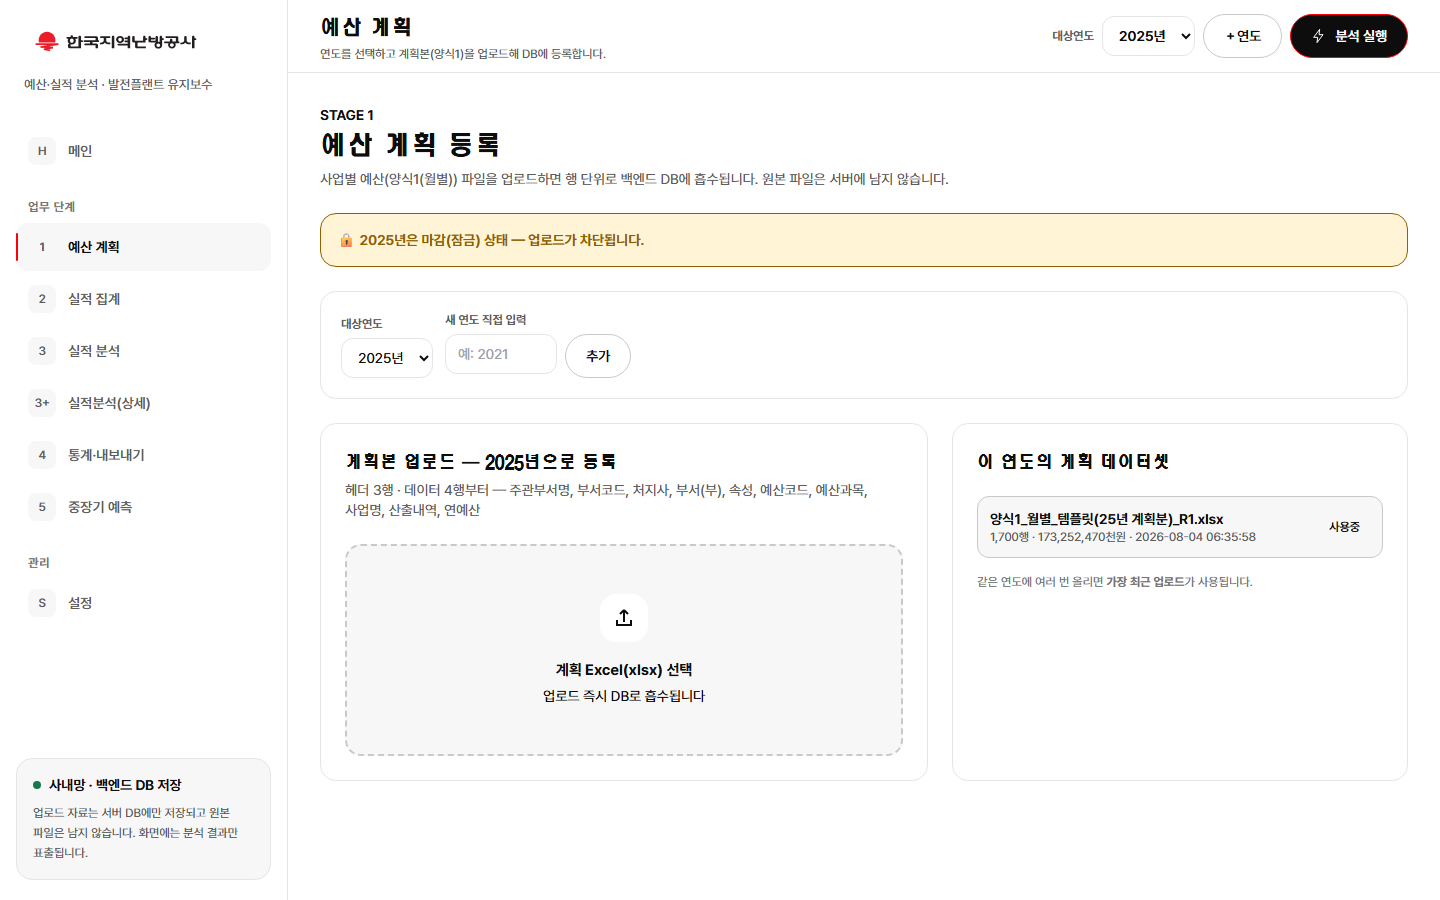
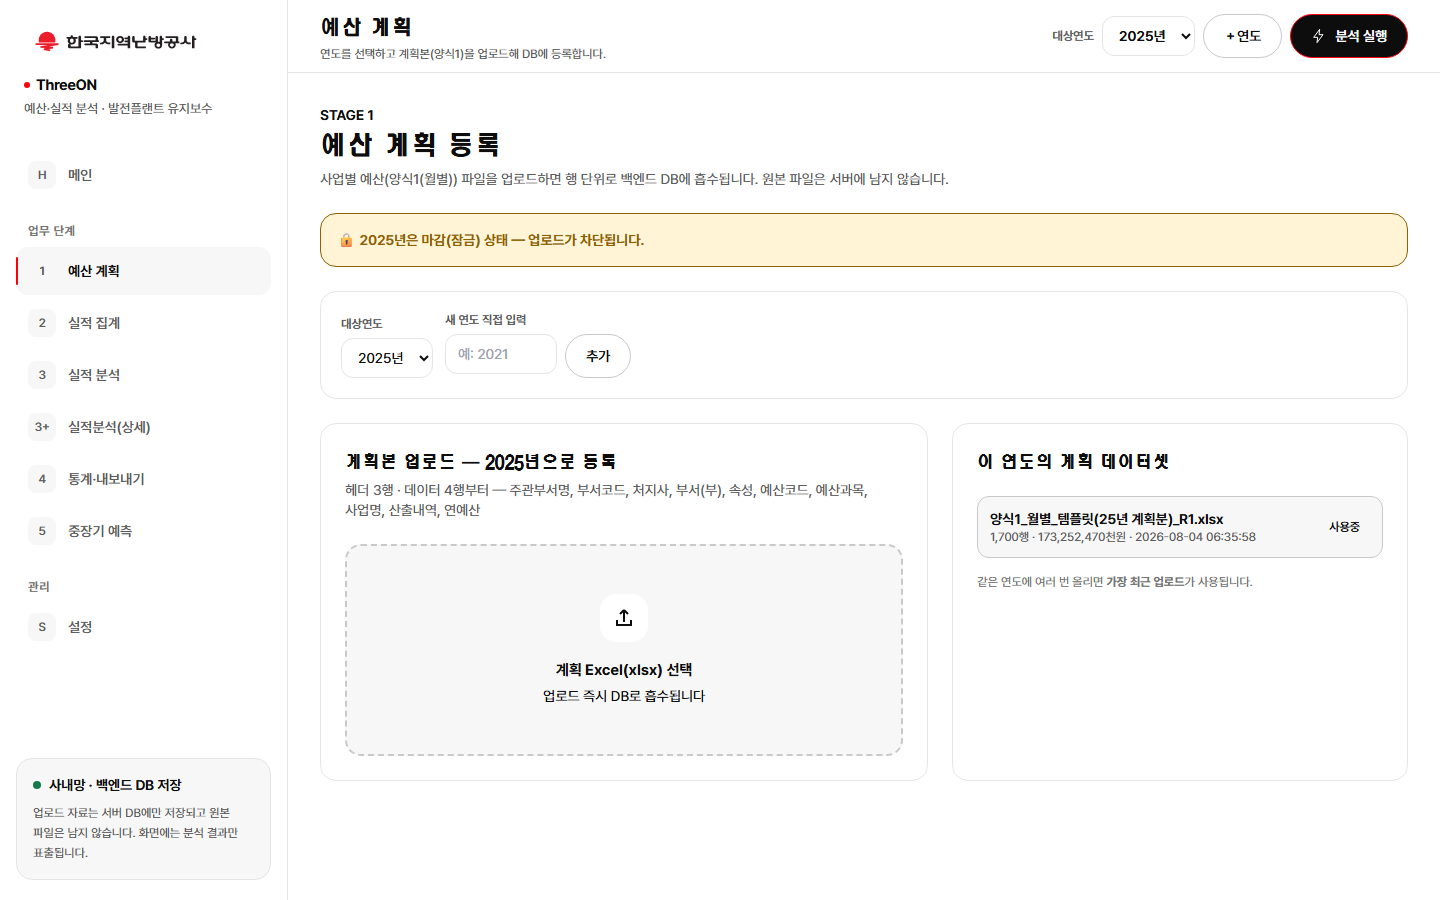
docs: 팀 공유 문서 Phase 8 현행화 · 캡처 24장 ThreeON 반영
왜: #35 로 화면이 바뀌었는데 팀원이 보는 문서·캡처는 Phase 7(파란 화면·269) 기준이었다.

- 팀공유_최종안내.html — 기준일 Phase 8 · 279 passed · «화면이 바뀌었지만 메뉴·순서는 그대로»
  안내 문단 · 문서 지도에 UI_제작메모_한난.md.
- 팀원_실행가이드.md — Phase 8 · 화면 변경 안내 · 테스트 수·소요시간.
- README.md — 읽기 순서에 UI 제작메모 · 토큰 두 곳 규칙 한 줄.
- 변경이력_CHANGELOG.md — rev19 Phase 8 항목(결정·토큰·셸·치환·폰트 함정·남은 것).
- 다음_할_일_체크리스트.md — Phase 8 절: #34·#35 병합 완료, 남은 것 = 후속 PR 병합 →
  Manual Deploy 확인 · 한난체 사용 범위 확인.
- 통합_인수인계_MASTER.md — rev19 현행화 블록(토큰 두 곳·test_ui_shell·ThreeON·operator-badge 이동).
- img/share 10장 · img/ui 1440·768 14장 — ThreeON 표기가 들어간 화면으로 재캡처
  (390·360 은 드로어가 닫혀 있어 사이드바가 안 보이므로 그대로).

diff --git a/2026-09-09-team-package-v0/docs/팀공유_최종안내.html b/2026-09-09-team-package-v0/docs/팀공유_최종안내.html
@@ -54,8 +54,8 @@
   <p>지사 19곳의 예산계획과 SAP 실적 전표를 자동으로 맞춰 보고, 마감된 연도의 실적으로 정비등급별 표준금액과 2026~2035년 소요를 전망하는 팀 시스템입니다. 이 문서는 «무엇을 하고 · 어떻게 쓰고 · 어디까지 검증됐고 · 무엇이 남았나»를 30분 안에 파악하기 위한 안내입니다.</p>
   <div class="meta">
     <div><b>주소</b>https://threeon-budget.onrender.com</div>
-    <div><b>기준일</b>2026-09-21 (Phase 7)</div>
-    <div><b>상태</b>1~5단계 완성 · 테스트 269 passed · 배포 운영 중</div>
+    <div><b>기준일</b>2026-09-21 (Phase 8)</div>
+    <div><b>상태</b>1~5단계 완성 · 테스트 279 passed · 배포 운영 중 · 한난 CI 디자인 적용</div>
     <div><b>단위</b>화면 천원</div>
   </div>
 </div></header>
@@ -71,6 +71,7 @@
     <div class="flow"><span>① 예산 계획</span><i>→</i><span>② 실적 집계·사업 매칭</span><i>→</i><span>③ 검토·확정·마감</span><i>→</i><span>④ 예산 표준화</span><i>→</i><span>⑤ 중장기 전망 26~35</span></div>
     <p style="margin-top:14px">계획본(양식1)과 ERP 전표(zrfm2)를 올리면 전표 하나하나를 계획 사업에 자동으로 귀속시키고(총액 유실 0), 사람이 검토·확정한 결과를 학습해 다음 해에 더 잘 맞춥니다. 확정된 연도를 <b>마감</b>하면 그 실적이 그대로 3·4단계(표준화·중장기 전망)의 입력이 됩니다 — 파일을 옮기거나 다른 프로그램을 열 필요가 없습니다.</p>
     <p>2026-09-20 까지의 변화: 동료가 만든 별도 전망 앱(v2)을 이 앱의 5번 탭으로 흡수했고, 서버는 프로세스 하나(uvicorn)로 정리됐으며, 인터넷이 없는 사내 서버에 올리는 절차까지 준비됐습니다.</p>
+    <p><b>2026-09-21 (Phase 8)</b>: 화면의 색·글꼴·형태를 <b>한국지역난방공사 공식 CI</b>(전용색 KDHC Red, 시그니처 로고, 제목용 한난체)로 바꿨습니다. 왼쪽에 우리 팀 이름 <b>ThreeON</b>이 붙었습니다. <b>메뉴·순서·기능은 그대로</b>이니 «화면이 낯설다»고 느껴도 하던 대로 쓰면 됩니다. 예전 화면이 보이면 <code>Ctrl+Shift+R</code> 한 번.</p>
   </div>
 </section>
 
@@ -185,6 +186,7 @@
     <tr><td>연계계약_CONTRACT.md</td><td>앱이 받고 내는 파일의 스키마·단위·명명 규칙</td></tr>
     <tr><td>배포가이드.md · 사내이관_가이드.md · 보안설계.md</td><td>운영·이관·보안</td></tr>
     <tr><td>학습데이터_모델_관리.md · DB_스냅샷.md</td><td>분류 모델·학습데이터 · DB 스키마와 현재 데이터</td></tr>
+    <tr><td>UI_제작메모_한난.md</td><td>화면 디자인 — 색·글꼴의 CI 근거, 대비표, 값 바꿀 때 보는 곳</td></tr>
     <tr><td>변경이력_CHANGELOG.md · superpowers/(설계·계획)</td><td>왜 이렇게 만들었나 — 의사결정 이력</td></tr>
   </table>
 </section>

diff --git a/2026-09-09-team-package-v0/docs/통합_인수인계_MASTER.md b/2026-09-09-team-package-v0/docs/통합_인수인계_MASTER.md
@@ -1,7 +1,9 @@
 # 예산·실적 분석 시스템 — 통합 인수인계 MASTER
 
 > **이 문서가 진입점입니다.** 다른 컴퓨터에서 Claude Code로 이 프로젝트를 분석·통합할 때 이 파일부터 읽으세요.
-> 작성: 2026-08-04 (rev13) · **현행화 2026-09-21 (Phase 7)** · 상태: **1~5단계(계획·실적·분석·통계·전망) 웹 앱 하나, 테스트 269 passed, Render 배포 운영 중**
+> 작성: 2026-08-04 (rev13) · **현행화 2026-09-21 (Phase 8)** · 상태: **1~5단계(계획·실적·분석·통계·전망) 웹 앱 하나, 테스트 279 passed, Render 배포 운영 중, 한난 CI 디자인 적용**
+>
+> **[rev19 · 2026-09-21 Phase 8 디자인]** 화면 색·글꼴·형태를 한난 공식 CI 로(#35). 토큰은 `app/web/tailwind.config.js` + `app.css :root` **두 곳 동일값**, 규칙·대비표·폰트 함정은 [UI_제작메모_한난.md](UI_제작메모_한난.md). 옛 팔레트(`blue-*`·`slate-*`) 를 새 화면에 쓰면 `test_ui_shell.py` 가 깨진다. 사이드바·게이트에 팀 이름 **ThreeON** 표기. §7 CSS 함정 문단의 «`.login-*`·`.operator-badge` 직접 CSS» 중 `.operator-badge` 는 `app.css` 컴포넌트로 옮겨졌다.
 >
 > **[2026-09-21 · Phase 6·7 이후 읽는 법]** 아래 본문은 rev13(2026-08-04) 기준으로 쓴 것이라 **분석 로직(§4)·DB(§5)·총액 보존 불변식·주의사항(§9)은 그대로 유효**하지만, 다음은 달라졌다:
 > - **앱은 하나다.** 3·4단계(표준화·중장기 전망)는 Phase 6(2026-09-19~20)에서 동료 전망 앱(v2)을 흡수해 **5번 탭**이 됐다(`/api/forecast/*`, 입력은 마감 연도의 `biz_line` 을 DB 에서 직접). v2 앱·Caddy·Streamlit·supervisord 는 삭제됐고 컨테이너는 uvicorn 하나다.
@@ -310,7 +312,7 @@ sed -n '/<body/,$p' webapp/index.html | sed '/^<\/html>$/d' \
 
 | 문서 | 상태 |
 |---|---|
-| 이 문서(상단 현행화 블록) + `변경이력_CHANGELOG.md` + [팀공유_최종안내.html](팀공유_최종안내.html) + [팀원_실행가이드.md](팀원_실행가이드.md) | ★ **최신 (Phase 7, 2026-09-21)** |
+| 이 문서(상단 현행화 블록) + `변경이력_CHANGELOG.md` + [팀공유_최종안내.html](팀공유_최종안내.html) + [팀원_실행가이드.md](팀원_실행가이드.md) + [UI_제작메모_한난.md](UI_제작메모_한난.md) | ★ **최신 (Phase 8, 2026-09-21)** |
 | `배포가이드.md` · `사내이관_가이드.md` · `보안설계.md` · `연계계약_CONTRACT.md` | 최신 (Phase 6-8~7) |
 | `budget_app/docs/DB_스냅샷.md` | 최신 — `py scripts/make_db_snapshot.py`로 언제든 재생성 |
 | `알고리즘_명세.html` | R1~R12까지 시각화 — **R13~R15(이동·삭제·개명동기화)는 미반영**, 이 문서 §4 표 참조 |

diff --git a/2026-09-09-team-package-v0/docs/변경이력_CHANGELOG.md b/2026-09-09-team-package-v0/docs/변경이력_CHANGELOG.md
@@ -4,6 +4,21 @@
 
 ---
 
+## 2026-09-21 · Phase 8 — 한난 디자인 시스템 적용 · ThreeON 표기 (rev19)
+
+**대상:** `app/web/`(토큰·컴포넌트·셸·뷰 10개) · `app/scripts/`(폰트 서브셋·치환) · `docs/`. PR #35 + 후속 PR. 테스트 **279 passed**(269 + `test_ui_shell.py` 10).
+
+- **결정(사용자)**: 전면 적용 · 사이드바 유지 · 시안 브랜드 규칙(주요 버튼 = 검정 바탕+흰 글자+빨간 테두리) · 제목에만 한난체. 레이아웃·메뉴·기능은 불변.
+- **토큰**: 브랜드 빨강 **`#FE0009`**(CI 매뉴얼 BS12 공식값; 시안의 추출값은 안 씀). 같은 값이 `tailwind.config.js`(유틸리티)와 `app.css :root`(변수) 두 곳 — 함께 바꾼다. 대비 때문에 시안값 2개 조정(`tri`→`#767676` 4.54:1, `warn`→`#8F6000` 4.99:1). 빨강 위 흰 글자는 4.02:1 이라 금지.
+- **셸**: 공식 시그니처 SVG(184px) + **ThreeON** 표기 · 72px 헤더 · 건너뛰기 링크 · `:focus-visible` 빨간 링 · 모바일 드로어 Escape/포커스 복귀/Tab 순환·aria.
+- **치환**: `scripts/restyle_sweep.py` 로 옛 팔레트 495곳 → 토큰. `test_ui_shell.py` 가 **잔존 0·shadow-* 0** 을 고정.
+- **폰트**: `scripts/make_hanan_font.py` — HANAN.TTF → 완성형 서브셋 woff2 130KB. 원본의 빈 윤곽 글리프 9개를 repair 하지 않으면 Chrome 이 폰트 전체를 거부한다. `/assets/*` immutable 캐시라 교체 시 `-v2` 파일명.
+- **기존 버그 1건**: 분석 버튼의 흰 점(`.pending-count` 가 `.hidden` 을 이김) 수정.
+- **문서**: [UI_제작메모_한난.md](UI_제작메모_한난.md)(CI 근거·대비표·실측/코드검토 구분) · `img/ui/` 4개 폭 캡처 28장 · `img/share/` 10장 갱신 · 팀 문서 Phase 8 현행화.
+- 남은 것(사용자): Manual Deploy 후 `/healthz`·로고·폰트 200 확인 · **한난체 웹폰트 사내 사용 범위 확인**(TTF 에 라이선스 문구 없음).
+
+---
+
 ## 2026-09-19~20 · Phase 6 완료 — 전망 기능 흡수 · 프로세스 하나 · 사내 이관 패키지 · 문서 통합 (rev18)
 
 **대상:** `app/`(5번 탭·`/api/forecast/*`) · `deploy/` · `docs/`. PR #18~#31 + 6-10. 테스트 **277 passed**. 배포 `449ad38`(#29) 실측.

diff --git a/2026-09-09-team-package-v0/README.md b/2026-09-09-team-package-v0/README.md
@@ -55,7 +55,8 @@ cd app/web && npm install && npm run build && cd ../..
 cd app && python -m uvicorn server:app --port 8010
 ```
 
-**3번을 건너뛰면 `/` 가 500 을 냅니다.** 프론트 원본은 `app/web/src/` 이고,
+**3번을 건너뛰면 `/` 가 500 을 냅니다.** 화면 색·글꼴은 한난 디자인 토큰(`app/web/tailwind.config.js` + `app.css :root`)이며 규칙은 [docs/UI_제작메모_한난.md](docs/UI_제작메모_한난.md).
+ 프론트 원본은 `app/web/src/` 이고,
 빌드 산출물 `app/web/../static/` 은 커밋하지 않습니다(`.gitignore`).
 프론트만 고칠 때는 `cd app/web && npm run dev` 가 편합니다.
 
@@ -98,7 +99,8 @@ Render는 저장소 루트의 `render.yaml`을 자동 인식합니다. 대시보
 | 4 | [docs/변경이력_CHANGELOG.md](docs/변경이력_CHANGELOG.md) | rev1~rev15 의사결정 이력 |
 | 5 | [docs/연계계약_CONTRACT.md](docs/연계계약_CONTRACT.md) | 앱이 받고 내는 파일·인터페이스 계약(옛 계약 4개 통합본) |
 | 6 | [docs/설계_3-4단계_소요전망_파이프라인.md](docs/설계_3-4단계_소요전망_파이프라인.md) | 표준화·중장기 전망 설계 (Phase 6 근거) |
-| 7 | [docs/팀공유_최종안내.html](docs/팀공유_최종안내.html) | **팀원용 — 무엇을 하는 앱이고 어떻게 쓰나** (Phase 7, 브라우저로 열기) |
+| 7 | [docs/팀공유_최종안내.html](docs/팀공유_최종안내.html) | **팀원용 — 무엇을 하는 앱이고 어떻게 쓰나** (Phase 8, 브라우저로 열기) |
+| 9 | [docs/UI_제작메모_한난.md](docs/UI_제작메모_한난.md) | 화면 디자인(Phase 8) — 한난 CI 토큰·한난체·대비표·값 바꿀 때 보는 두 곳 |
 | 8 | [docs/사내이관_가이드.md](docs/사내이관_가이드.md) | 인터넷 없는 사내 서버에 올리는 절차·스크립트 |
 
 ---

diff --git a/2026-09-09-team-package-v0/docs/다음_할_일_체크리스트.md b/2026-09-09-team-package-v0/docs/다음_할_일_체크리스트.md
@@ -4,8 +4,10 @@
 > **[2026-09-20 현행화]** 0~4단계는 끝났다(Render 배포 `449ad38` 운영 중, Phase 6 완료로 앱 하나·프로세스 하나). 살아 있는 항목은 **1단계의 private 전환**, **2단계의 2FA·PG_TEST_URL 주의**, **5단계(사내 이관)** 뿐이다. 아래 완료 항목의 «Caddy·forecast_app» 문구는 당시 기록이다.
 > 당시 검증된 것: budget_app 테스트 87 · 전망 앱 183 · PostgreSQL 실서버 워크로드 · 프록시 한 주소 라우팅. 지금: budget_app **277 passed**, 전망 앱은 흡수·삭제.
 
-## Phase 7 (2026-09-21) — 지금 살아 있는 항목만
-- [ ] **[사용자]** #Phase 7 PR 병합 → Render Manual Deploy → `/healthz` commit 확인(코드 변경 있음)
+## Phase 8 (2026-09-21) — 지금 살아 있는 항목만
+- [x] **[사용자]** Phase 7 #34 · Phase 8 #35 병합
+- [ ] **[사용자]** 후속 PR(ThreeON 표기·문서) 병합 → Render **Manual Deploy → Deploy latest commit** → 1분 뒤 `/healthz` 의 `commit` 확인 · 제목이 한난체로 보이는지(F12 콘솔에 «Failed to decode downloaded font» 없음) · `/assets/kdhc-signature-ko.svg`·`/assets/fonts/HananCha-v1.woff2` 200
+- [ ] **[사용자]** **한난체 웹폰트 사내 사용 범위 확인**(CI 담당 부서) — TTF 에 라이선스 문구 없음. 불가 시 `app.css` 의 `@font-face` 와 `font-hanan` 만 빼면 Pretendard 폴백
 - [ ] **[사용자]** 팀원 안내 — 배포 주소 · 팀 비밀번호(비밀 메모) · 작업자 이름 규칙 · [팀공유_최종안내.html](팀공유_최종안내.html)
 - [ ] **[사용자]** Supabase 계정 2단계 인증
 - [ ] **[사용자]** 저장소 public + 루트 실데이터 — private 전환·파일 삭제(보류 중, 보안설계 §6-5)

diff --git a/2026-09-09-team-package-v0/docs/팀원_실행가이드.md b/2026-09-09-team-package-v0/docs/팀원_실행가이드.md
@@ -1,4 +1,4 @@
-# 팀원 실행 가이드 (2026-09-21 · Phase 7)
+# 팀원 실행 가이드 (2026-09-21 · Phase 8)
 
 > 30분짜리 요약과 화면 캡처는 [팀공유_최종안내.html](팀공유_최종안내.html) 을 브라우저로 여세요. 이 문서는 «손에 쥐고 쓰는» 순서만 적습니다.
 
@@ -9,6 +9,8 @@
 열면 로그인 화면이 뜹니다. **작업자 이름 + 팀 공용 비밀번호**를 넣고 들어가면 왼쪽 메뉴로 1~5단계와 설정을 오갑니다. 로그인은 한 번뿐이고, 3·4단계(표준화·중장기 전망)도 같은 화면 안(5번 탭)입니다 — 별도 프로그램이나 파일 이동이 없습니다.
 
 예전 `/app/`·`/forecast` 즐겨찾기는 그대로 두셔도 됩니다(자동으로 위 주소로 넘어옵니다).
+
+> **2026-09-21 화면이 바뀌었습니다.** 색·글꼴·버튼 모양을 한국지역난방공사 공식 CI(빨간 포인트·검정 버튼·한난체 제목)로 맞추고, 왼쪽 위에 팀 이름 **ThreeON** 을 붙였습니다. **메뉴·순서·기능은 그대로**입니다. 예전 파란 화면이 보이면 `Ctrl+Shift+R`.
 
 ### 화면마다 주소가 있습니다
 
@@ -71,5 +73,5 @@
 ## 7. 테스트 (개발자)
 
 ```bash
-cd app && py -m pytest -q      # 2026-09-21 기준 269 passed, 약 3~4분
+cd app && py -m pytest -q      # 2026-09-21 기준 279 passed, 약 4~7분(빌드와 동시 실행 시 더 걸림)
 ```
